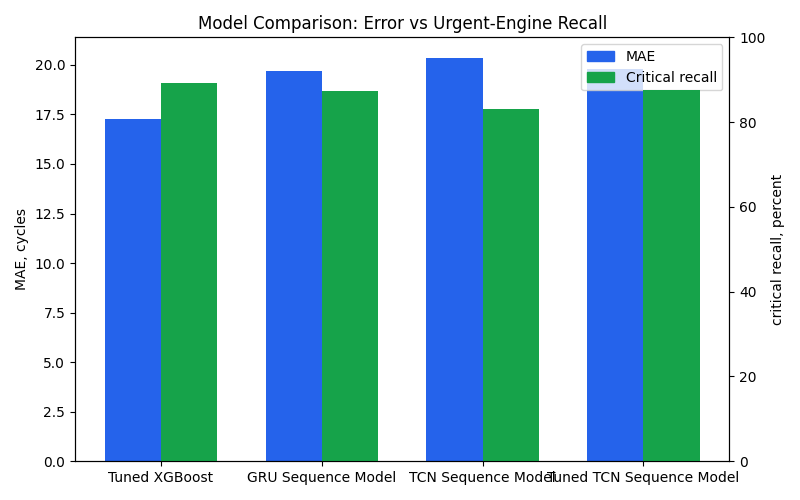
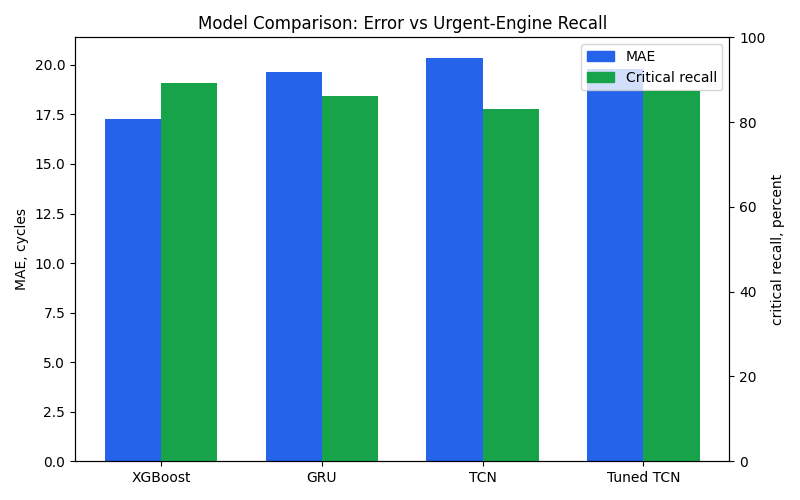
Correct maintenance evaluation metrics

Changed region(s): [[0.3125, 0.93, 0.9375, 0.99], [0.125, 0.93, 0.2812, 0.99], [0.4062, 0.18, 0.4688, 0.21]]

diff --git a/results/dashboard.html b/results/dashboard.html
@@ -231,8 +231,8 @@
 <body>
   <header>
     <div class="eyebrow">Predictive maintenance demo</div>
-    <h1>NASA Turbofan Predictive Maintenance Dashboard</h1>
-    <p>A plain-language view of which simulated jet engines are closest to failure and what maintenance action to take first.</p>
+    <h1>NASA Turbofan Maintenance Evaluation</h1>
+    <p>A plain-language evaluation of which simulated jet engines are closest to failure and what maintenance action the model recommends.</p>
   </header>
   <main>
     <section class="intro">
@@ -272,7 +272,7 @@
         <p>Exact match between predicted and true risk bands.</p>
       </div>
       <div class="metric">
-        <span>Critical Recall</span><strong>89.2%</strong>
+        <span>Critical Recall</span><strong>89.3%</strong>
         <p>Share of truly urgent engines caught by the critical-risk rule.</p>
       </div>
     </div>
@@ -379,37 +379,38 @@
               <th>Test Engines</th>
               <th>MAE</th>
               <th>RMSE</th>
+              <th>NASA Score</th>
               <th>Risk Match</th>
               <th>Crit. Recall</th>
               <th>Crit. Misses</th>
             </tr>
           </thead>
           <tbody>
-            <tr class="summary-row"><td>Tuned XGBoost</td><td>Overall</td><td>707</td><td>17.27</td><td>23.94</td><td>77.1%</td><td>89.2%</td><td>17</td></tr>
-<tr class="summary-row"><td>GRU Sequence Model</td><td>Overall</td><td>707</td><td>19.71</td><td>27.49</td><td>73.3%</td><td>87.2%</td><td>20</td></tr>
-<tr class="summary-row"><td>TCN Sequence Model</td><td>Overall</td><td>707</td><td>20.37</td><td>27.65</td><td>72.1%</td><td>83.1%</td><td>27</td></tr>
-<tr class="summary-row"><td>Tuned TCN Sequence Model</td><td>Overall</td><td>707</td><td>19.81</td><td>27.66</td><td>74.8%</td><td>87.6%</td><td>20</td></tr>
-<tr><td>Tuned XGBoost</td><td>FD001</td><td>100</td><td>9.89</td><td>12.94</td><td>79.0%</td><td>84.0%</td><td>4</td></tr>
-<tr><td>Tuned XGBoost</td><td>FD002</td><td>259</td><td>19.34</td><td>27.62</td><td>78.8%</td><td>96.7%</td><td>2</td></tr>
-<tr><td>Tuned XGBoost</td><td>FD003</td><td>100</td><td>10.18</td><td>13.79</td><td>81.0%</td><td>90.0%</td><td>2</td></tr>
-<tr><td>Tuned XGBoost</td><td>FD004</td><td>248</td><td>20.95</td><td>28.62</td><td>73.0%</td><td>83.0%</td><td>9</td></tr>
-<tr><td>GRU Sequence Model</td><td>FD001</td><td>100</td><td>13.99</td><td>19.32</td><td>70.0%</td><td>80.0%</td><td>5</td></tr>
-<tr><td>GRU Sequence Model</td><td>FD002</td><td>259</td><td>20.26</td><td>30.17</td><td>77.2%</td><td>96.7%</td><td>2</td></tr>
-<tr><td>GRU Sequence Model</td><td>FD003</td><td>100</td><td>12.58</td><td>17.19</td><td>74.0%</td><td>85.0%</td><td>3</td></tr>
-<tr><td>GRU Sequence Model</td><td>FD004</td><td>248</td><td>24.31</td><td>32.15</td><td>70.2%</td><td>81.1%</td><td>10</td></tr>
-<tr><td>TCN Sequence Model</td><td>FD001</td><td>100</td><td>14.87</td><td>19.26</td><td>66.0%</td><td>64.0%</td><td>9</td></tr>
-<tr><td>TCN Sequence Model</td><td>FD002</td><td>259</td><td>20.80</td><td>30.17</td><td>76.4%</td><td>93.4%</td><td>4</td></tr>
-<tr><td>TCN Sequence Model</td><td>FD003</td><td>100</td><td>13.93</td><td>18.74</td><td>74.0%</td><td>85.0%</td><td>3</td></tr>
-<tr><td>TCN Sequence Model</td><td>FD004</td><td>248</td><td>24.73</td><td>32.00</td><td>69.4%</td><td>79.2%</td><td>11</td></tr>
-<tr><td>Tuned TCN Sequence Model</td><td>FD001</td><td>100</td><td>13.82</td><td>18.39</td><td>69.0%</td><td>64.0%</td><td>9</td></tr>
-<tr><td>Tuned TCN Sequence Model</td><td>FD002</td><td>259</td><td>20.57</td><td>30.19</td><td>78.0%</td><td>98.4%</td><td>1</td></tr>
-<tr><td>Tuned TCN Sequence Model</td><td>FD003</td><td>100</td><td>14.51</td><td>19.22</td><td>75.0%</td><td>85.0%</td><td>3</td></tr>
-<tr><td>Tuned TCN Sequence Model</td><td>FD004</td><td>248</td><td>23.58</td><td>32.17</td><td>73.8%</td><td>86.8%</td><td>7</td></tr>
+            <tr class="summary-row"><td>Tuned XGBoost</td><td>Overall</td><td>707</td><td>17.27</td><td>24.85</td><td>17096.8</td><td>77.1%</td><td>89.3%</td><td>17</td></tr>
+<tr class="summary-row"><td>GRU Sequence Model</td><td>Overall</td><td>707</td><td>19.64</td><td>28.03</td><td>83564.8</td><td>73.8%</td><td>86.2%</td><td>22</td></tr>
+<tr class="summary-row"><td>TCN Sequence Model</td><td>Overall</td><td>707</td><td>20.37</td><td>28.19</td><td>36947.3</td><td>72.1%</td><td>83.0%</td><td>27</td></tr>
+<tr class="summary-row"><td>Tuned TCN Sequence Model</td><td>Overall</td><td>707</td><td>19.81</td><td>28.23</td><td>58809.4</td><td>74.8%</td><td>87.4%</td><td>20</td></tr>
+<tr><td>Tuned XGBoost</td><td>FD001</td><td>100</td><td>9.89</td><td>12.94</td><td>220.2</td><td>79.0%</td><td>84.0%</td><td>4</td></tr>
+<tr><td>Tuned XGBoost</td><td>FD002</td><td>259</td><td>19.34</td><td>27.62</td><td>10343.4</td><td>78.8%</td><td>96.7%</td><td>2</td></tr>
+<tr><td>Tuned XGBoost</td><td>FD003</td><td>100</td><td>10.18</td><td>13.79</td><td>335.5</td><td>81.0%</td><td>90.0%</td><td>2</td></tr>
+<tr><td>Tuned XGBoost</td><td>FD004</td><td>248</td><td>20.95</td><td>28.62</td><td>6197.7</td><td>73.0%</td><td>83.0%</td><td>9</td></tr>
+<tr><td>GRU Sequence Model</td><td>FD001</td><td>100</td><td>13.48</td><td>18.37</td><td>844.8</td><td>74.0%</td><td>72.0%</td><td>7</td></tr>
+<tr><td>GRU Sequence Model</td><td>FD002</td><td>259</td><td>20.26</td><td>30.17</td><td>66568.1</td><td>77.2%</td><td>96.7%</td><td>2</td></tr>
+<tr><td>GRU Sequence Model</td><td>FD003</td><td>100</td><td>12.58</td><td>17.19</td><td>897.4</td><td>74.0%</td><td>85.0%</td><td>3</td></tr>
+<tr><td>GRU Sequence Model</td><td>FD004</td><td>248</td><td>24.31</td><td>32.15</td><td>15254.6</td><td>70.2%</td><td>81.1%</td><td>10</td></tr>
+<tr><td>TCN Sequence Model</td><td>FD001</td><td>100</td><td>14.87</td><td>19.26</td><td>764.1</td><td>66.0%</td><td>64.0%</td><td>9</td></tr>
+<tr><td>TCN Sequence Model</td><td>FD002</td><td>259</td><td>20.80</td><td>30.17</td><td>23728.6</td><td>76.4%</td><td>93.4%</td><td>4</td></tr>
+<tr><td>TCN Sequence Model</td><td>FD003</td><td>100</td><td>13.93</td><td>18.74</td><td>1537.1</td><td>74.0%</td><td>85.0%</td><td>3</td></tr>
+<tr><td>TCN Sequence Model</td><td>FD004</td><td>248</td><td>24.73</td><td>32.00</td><td>10917.6</td><td>69.4%</td><td>79.2%</td><td>11</td></tr>
+<tr><td>Tuned TCN Sequence Model</td><td>FD001</td><td>100</td><td>13.82</td><td>18.39</td><td>716.9</td><td>69.0%</td><td>64.0%</td><td>9</td></tr>
+<tr><td>Tuned TCN Sequence Model</td><td>FD002</td><td>259</td><td>20.57</td><td>30.19</td><td>41860.2</td><td>78.0%</td><td>98.4%</td><td>1</td></tr>
+<tr><td>Tuned TCN Sequence Model</td><td>FD003</td><td>100</td><td>14.51</td><td>19.22</td><td>1290.4</td><td>75.0%</td><td>85.0%</td><td>3</td></tr>
+<tr><td>Tuned TCN Sequence Model</td><td>FD004</td><td>248</td><td>23.58</td><td>32.17</td><td>14941.9</td><td>73.8%</td><td>86.8%</td><td>7</td></tr>
           </tbody>
         </table>
       </div>
       <div class="metric-note">
-        <p><strong>Interpretation:</strong> lower MAE is better, but for maintenance the critical recall and critical misses columns matter most. A model that looks slightly better on average can still be worse if it misses more urgent engines.</p>
+        <p><strong>Interpretation:</strong> lower MAE, RMSE, and NASA score are better. The NASA score penalizes late RUL predictions more strongly because overestimating remaining life is more dangerous. Critical recall and critical misses show whether urgent engines were caught.</p>
       </div>
     </section>
 

diff --git a/src/predictive_maintenance.py b/src/predictive_maintenance.py
@@ -167,13 +167,16 @@ def risk_metrics(report: pd.DataFrame) -> dict[str, float]:
     critical_count = int(actual_critical.sum())
     high_priority_count = int(actual_high_priority.sum())
     false_negative_count = int((actual_critical & ~predicted_critical).sum())
+    critical_true_positive_count = int((actual_critical & predicted_critical).sum())
     high_priority_false_negative_count = int(
         (actual_high_priority & ~predicted_high_priority).sum()
     )
 
     return {
+        "actual_critical_engines": critical_count,
+        "critical_true_positives": critical_true_positive_count,
         "critical_recall": (
-            float((actual_critical & predicted_critical).sum() / critical_count)
+            float(critical_true_positive_count / critical_count)
             if critical_count
             else 0.0
         ),
@@ -188,6 +191,16 @@ def risk_metrics(report: pd.DataFrame) -> dict[str, float]:
         ),
         "high_priority_false_negatives": high_priority_false_negative_count,
     }
+
+
+def nasa_score(actual: pd.Series, predictions: pd.Series) -> float:
+    errors = predictions.to_numpy() - actual.to_numpy()
+    penalties = np.where(
+        errors < 0,
+        np.exp(-errors / 13.0) - 1.0,
+        np.exp(errors / 10.0) - 1.0,
+    )
+    return float(penalties.sum())
 
 
 def split_engine_units(data: pd.DataFrame, validation_fraction: float = 0.22) -> tuple[set[int], set[int]]:
@@ -564,6 +577,7 @@ def train_torch_sequence_subset(
         "test_engines": int(test_data["unit_number"].nunique()),
         "mae": mean_absolute_error(actual, predictions),
         "rmse": mean_squared_error(actual, predictions) ** 0.5,
+        "nasa_score": nasa_score(actual, predictions),
         "critical_engines": int((report["risk_level"] == "critical").sum()),
         "risk_decision_accuracy": float(report["risk_match"].mean()),
         **maintenance_metrics,
@@ -623,6 +637,7 @@ def train_subset(
         "test_engines": int(test_data["unit_number"].nunique()),
         "mae": mae,
         "rmse": rmse,
+        "nasa_score": nasa_score(actual, predictions),
         "critical_engines": int((report["risk_level"] == "critical").sum()),
         "risk_decision_accuracy": float(report["risk_match"].mean()),
         **maintenance_metrics,
@@ -649,6 +664,7 @@ def save_metrics(metrics: pd.DataFrame) -> None:
             file.write(f"Test engines: {int(row['test_engines'])}\n")
             file.write(f"MAE: {row['mae']:.2f} cycles\n")
             file.write(f"RMSE: {row['rmse']:.2f} cycles\n")
+            file.write(f"NASA score: {row['nasa_score']:.1f}\n")
             file.write(f"Engines needing urgent maintenance: {int(row['critical_engines'])}\n")
             file.write(f"Risk decision accuracy: {row['risk_decision_accuracy']:.1%}\n")
             file.write(f"Critical recall: {row['critical_recall']:.1%}\n")
@@ -831,13 +847,17 @@ def weighted_model_summary(comparison: pd.DataFrame) -> pd.DataFrame:
                 "subset": "Overall",
                 "test_engines": int(weights.sum()),
                 "mae": float((model_rows["mae"] * weights).sum() / weights.sum()),
-                "rmse": float((model_rows["rmse"] * weights).sum() / weights.sum()),
                 "risk_decision_accuracy": float(
                     (model_rows["risk_decision_accuracy"] * weights).sum()
                     / weights.sum()
                 ),
+                "rmse": float(
+                    np.sqrt((model_rows["rmse"].pow(2) * weights).sum() / weights.sum())
+                ),
+                "nasa_score": float(model_rows["nasa_score"].sum()),
                 "critical_recall": float(
-                    (model_rows["critical_recall"] * weights).sum() / weights.sum()
+                    model_rows["critical_true_positives"].sum()
+                    / model_rows["actual_critical_engines"].sum()
                 ),
                 "critical_false_negatives": int(
                     model_rows["critical_false_negatives"].sum()
@@ -867,6 +887,7 @@ def make_model_comparison_table(comparison: pd.DataFrame) -> str:
             f"<td>{int(row['test_engines'])}</td>"
             f"<td>{row['mae']:.2f}</td>"
             f"<td>{row['rmse']:.2f}</td>"
+            f"<td>{row['nasa_score']:.1f}</td>"
             f"<td>{row['risk_decision_accuracy']:.1%}</td>"
             f"<td>{row['critical_recall']:.1%}</td>"
             f"<td>{int(row['critical_false_negatives'])}</td>"
@@ -902,7 +923,15 @@ def plot_model_comparison(comparison: pd.DataFrame) -> None:
     left_axis.set_ylabel("MAE, cycles")
     right_axis.set_ylabel("critical recall, percent")
     left_axis.set_xticks(x)
-    left_axis.set_xticklabels(summary["model"], rotation=0)
+    short_labels = {
+        "Tuned XGBoost": "XGBoost",
+        "GRU Sequence Model": "GRU",
+        "TCN Sequence Model": "TCN",
+        "Tuned TCN Sequence Model": "Tuned TCN",
+    }
+    left_axis.set_xticklabels(
+        [short_labels.get(model, model) for model in summary["model"]], rotation=0
+    )
     left_axis.set_ylim(bottom=0)
     right_axis.set_ylim(0, 100)
 
@@ -925,13 +954,16 @@ def build_dashboard(
     low_count = int((report["risk_level"] == "low").sum())
     metric_weights = metrics["test_engines"]
     mean_mae = (metrics["mae"] * metric_weights).sum() / metric_weights.sum()
-    mean_rmse = (metrics["rmse"] * metric_weights).sum() / metric_weights.sum()
+    mean_rmse = np.sqrt(
+        (metrics["rmse"].pow(2) * metric_weights).sum() / metric_weights.sum()
+    )
     mean_risk_accuracy = (
         metrics["risk_decision_accuracy"] * metric_weights
     ).sum() / metric_weights.sum()
     mean_critical_recall = (
-        metrics["critical_recall"] * metric_weights
-    ).sum() / metric_weights.sum()
+        metrics["critical_true_positives"].sum()
+        / metrics["actual_critical_engines"].sum()
+    )
     critical_false_negatives = int(metrics["critical_false_negatives"].sum())
     report_records = report.sort_values("predicted_rul").to_dict(orient="records")
     report_json = json.dumps(report_records, separators=(",", ":"))
@@ -953,6 +985,7 @@ def build_dashboard(
               <th>Test Engines</th>
               <th>MAE</th>
               <th>RMSE</th>
+              <th>NASA Score</th>
               <th>Risk Match</th>
               <th>Crit. Recall</th>
               <th>Crit. Misses</th>
@@ -964,7 +997,7 @@ def build_dashboard(
         </table>
       </div>
       <div class="metric-note">
-        <p><strong>Interpretation:</strong> lower MAE is better, but for maintenance the critical recall and critical misses columns matter most. A model that looks slightly better on average can still be worse if it misses more urgent engines.</p>
+        <p><strong>Interpretation:</strong> lower MAE, RMSE, and NASA score are better. The NASA score penalizes late RUL predictions more strongly because overestimating remaining life is more dangerous. Critical recall and critical misses show whether urgent engines were caught.</p>
       </div>
     </section>
 """
@@ -1202,8 +1235,8 @@ def build_dashboard(
 <body>
   <header>
     <div class="eyebrow">Predictive maintenance demo</div>
-    <h1>NASA Turbofan Predictive Maintenance Dashboard</h1>
-    <p>A plain-language view of which simulated jet engines are closest to failure and what maintenance action to take first.</p>
+    <h1>NASA Turbofan Maintenance Evaluation</h1>
+    <p>A plain-language evaluation of which simulated jet engines are closest to failure and what maintenance action the model recommends.</p>
   </header>
   <main>
     <section class="intro">

diff --git a/src/tcn_tuning_experiment.py b/src/tcn_tuning_experiment.py
@@ -20,6 +20,7 @@ if __package__ in {None, ""}:
         build_maintenance_report,
         build_dashboard,
         maintenance_validation_score,
+        nasa_score,
         make_sequence_test_set,
         make_sequence_training_set,
         plot_model_comparison,
@@ -41,6 +42,7 @@ else:
         build_maintenance_report,
         build_dashboard,
         maintenance_validation_score,
+        nasa_score,
         make_sequence_test_set,
         make_sequence_training_set,
         plot_model_comparison,
@@ -337,6 +339,7 @@ def evaluate_predictions(actual: pd.Series, predictions: pd.Series) -> dict[str,
     return {
         "mae": mean_absolute_error(actual, predictions),
         "rmse": mean_squared_error(actual, predictions) ** 0.5,
+        "nasa_score": nasa_score(actual, predictions),
         "score": maintenance_validation_score(actual, predictions),
         "critical_recall": metrics["critical_recall"],
         "critical_false_negatives": metrics["critical_false_negatives"],
@@ -419,6 +422,7 @@ def evaluate_best_on_test(
         "test_engines": int(test_data["unit_number"].nunique()),
         "mae": mean_absolute_error(actual, predictions),
         "rmse": mean_squared_error(actual, predictions) ** 0.5,
+        "nasa_score": nasa_score(actual, predictions),
         "critical_engines": int((report["risk_level"] == "critical").sum()),
         "risk_decision_accuracy": float(report["risk_match"].mean()),
         **metrics,
@@ -457,7 +461,13 @@ def main() -> None:
     if test_path.exists():
         print(f"Loading saved tuned test results from {test_path}", flush=True)
         test_results = pd.read_csv(test_path)
-    else:
+
+    required_test_columns = {
+        "nasa_score",
+        "actual_critical_engines",
+        "critical_true_positives",
+    }
+    if not test_path.exists() or not required_test_columns.issubset(test_results.columns):
         test_metrics = []
         for best_config in selected_configs:
             subset = str(best_config["subset"])

diff --git a/README.md b/README.md
@@ -72,15 +72,16 @@ The dashboard is an HTML file, but the engine lookup loads `results/engine_times
 
 The model is tuned per subset because the four C-MAPSS subsets represent different operating and fault conditions. The tuner uses validation engines from the training data, creates several in-service snapshots per engine, then chooses the configuration that balances prediction error with the cost of missing truly critical engines.
 
-Weighted overall results across all 707 test engines:
+Overall results across all 707 test engines:
 
 - MAE: `17.27` cycles
-- RMSE: `23.94` cycles
+- RMSE: `24.85` cycles
+- NASA score: `17,096.8`
 - Risk bucket match: `77.1%`
-- Critical recall: `89.2%`
+- Critical recall: `89.3%`
 - Critical false negatives: `17` engines
 
-The `77.1%` risk bucket match is a strict four-level comparison between predicted and true risk bands. For a maintenance workflow, the more important safety metric is critical recall: how many engines with 30 cycles or fewer remaining were correctly flagged as critical. This run catches `89.2%` of truly critical engines.
+The `77.1%` risk bucket match is a strict four-level comparison between predicted and true risk bands. For a maintenance workflow, the more important safety metric is critical recall: how many engines with 30 cycles or fewer remaining were correctly flagged as critical. This run catches `89.3%` of truly critical engines.
 
 ## Visual Results
 
@@ -183,19 +184,20 @@ The models answer the same question: given the latest available information for 
 
 The sequence models are trained with sliding windows every 10 cycles after the first 30 cycles, plus each engine's final cycle. That creates `14,937` sequence training windows across FD001-FD004 instead of only a few snapshots per engine.
 
-Weighted overall comparison:
+Overall comparison across the same 707 test engines:
 
-| Model | MAE | RMSE | Risk bucket match | Critical recall | Critical misses |
-| --- | ---: | ---: | ---: | ---: | ---: |
-| Tuned XGBoost | 17.27 | 23.94 | 77.1% | 89.2% | 17 |
-| GRU Sequence Model | 19.71 | 27.49 | 73.3% | 87.2% | 20 |
-| TCN Sequence Model | 20.37 | 27.65 | 72.1% | 83.1% | 27 |
-| Tuned TCN Sequence Model | 19.81 | 27.66 | 74.8% | 87.6% | 20 |
+| Model | MAE | RMSE | NASA score | Risk bucket match | Critical recall | Critical misses |
+| --- | ---: | ---: | ---: | ---: | ---: | ---: |
+| Tuned XGBoost | 17.27 | 24.85 | 17,096.8 | 77.1% | 89.3% | 17 |
+| GRU Sequence Model | 19.64 | 28.03 | 83,564.8 | 73.8% | 86.2% | 22 |
+| TCN Sequence Model | 20.37 | 28.19 | 36,947.3 | 72.1% | 83.0% | 27 |
+| Tuned TCN Sequence Model | 19.81 | 28.23 | 58,809.4 | 74.8% | 87.4% | 20 |
 
 ### How To Read The Metrics
 
 - **MAE**: average prediction error in cycles. Lower is better.
 - **RMSE**: like MAE, but punishes large mistakes more. Lower is better.
+- **NASA score**: an asymmetric error score that penalizes dangerous late RUL predictions more strongly. Lower is better, and values should only be compared on the same test engines.
 - **Risk bucket match**: how often the predicted risk band matches the true risk band.
 - **Critical recall**: how many truly urgent engines were correctly flagged as critical. This is the most important safety metric.
 - **Critical misses**: engines with 30 cycles or fewer remaining that were not predicted as critical. Lower is better.
@@ -204,7 +206,7 @@ Weighted overall comparison:
 
 XGBoost is still the best model in this project. It has the lowest average error, the best risk bucket match, the highest critical recall, and the fewest missed critical engines.
 
-The sliding-window upgrade makes the sequence models much stronger than the earlier small-snapshot version. GRU improves from `21.98` to `19.71` MAE and reduces critical misses from `26` to `20`. TCN improves its critical misses from `31` to `27`.
+The sliding-window upgrade makes the sequence models much stronger than the earlier small-snapshot version. GRU improves from `21.98` to `19.64` MAE and reduces critical misses from `26` to `22`. TCN improves its critical misses from `31` to `27`.
 
 For this C-MAPSS setup, engineered tabular features plus tuned XGBoost are stronger than the current GRU and TCN implementations. XGBoost is very effective when the time-series behavior is summarized with rolling, slope, delta, and baseline-deviation features.
 
@@ -216,7 +218,7 @@ python src/tcn_tuning_experiment.py
 
 The tuning script tries multiple TCN hidden sizes, dilation patterns, dropout levels, loss functions, learning rates, and critical-engine loss weights. It selects the best configuration per subset using validation engines from the training set, then evaluates the selected configurations once on the held-out NASA test engines.
 
-Tuning helped the TCN substantially: critical recall improved from `83.1%` to `87.6%`, and critical misses dropped from `27` to `20`. It especially helped FD002 and FD004. Tuned TCN still does not beat tuned XGBoost overall, but it becomes competitive with the GRU on maintenance recall.
+Tuning helped the TCN substantially: critical recall improved from `83.0%` to `87.4%`, and critical misses dropped from `27` to `20`. It especially helped FD002 and FD004. Tuned TCN still does not beat tuned XGBoost overall, but it becomes competitive with the GRU on maintenance recall.
 
 XGBoost already uses per-subset validation tuning in this project. More XGBoost tuning is possible with a larger random search or Optuna-style optimization, but the current XGBoost model is already the strongest tested model. For the current project, XGBoost remains the main predictive maintenance model.
 
